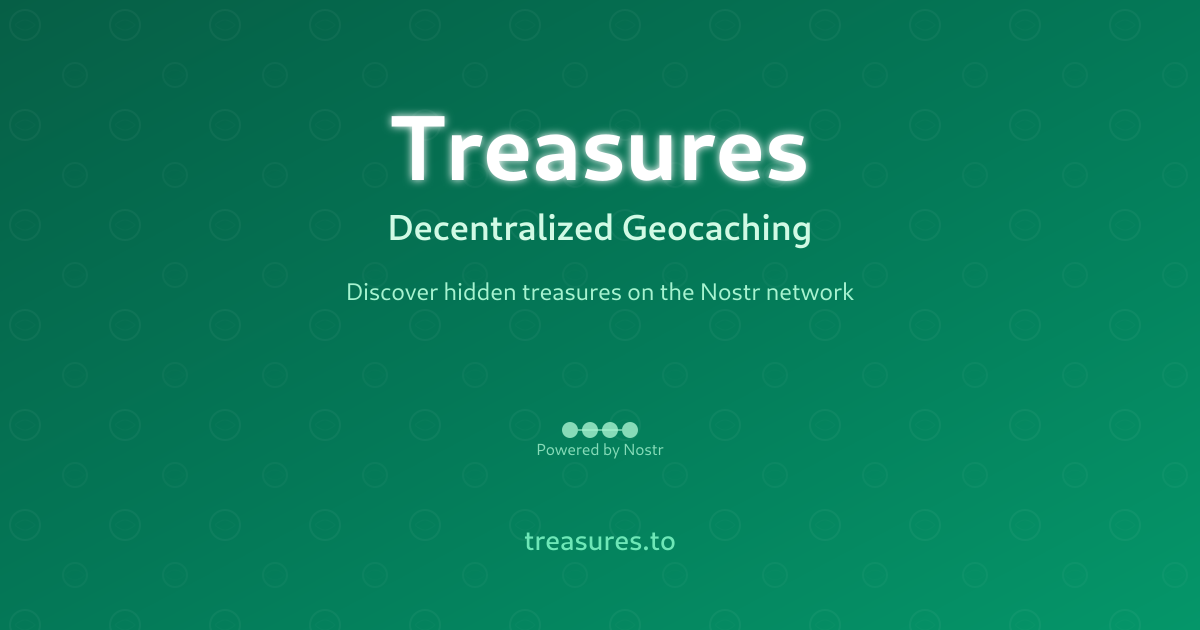
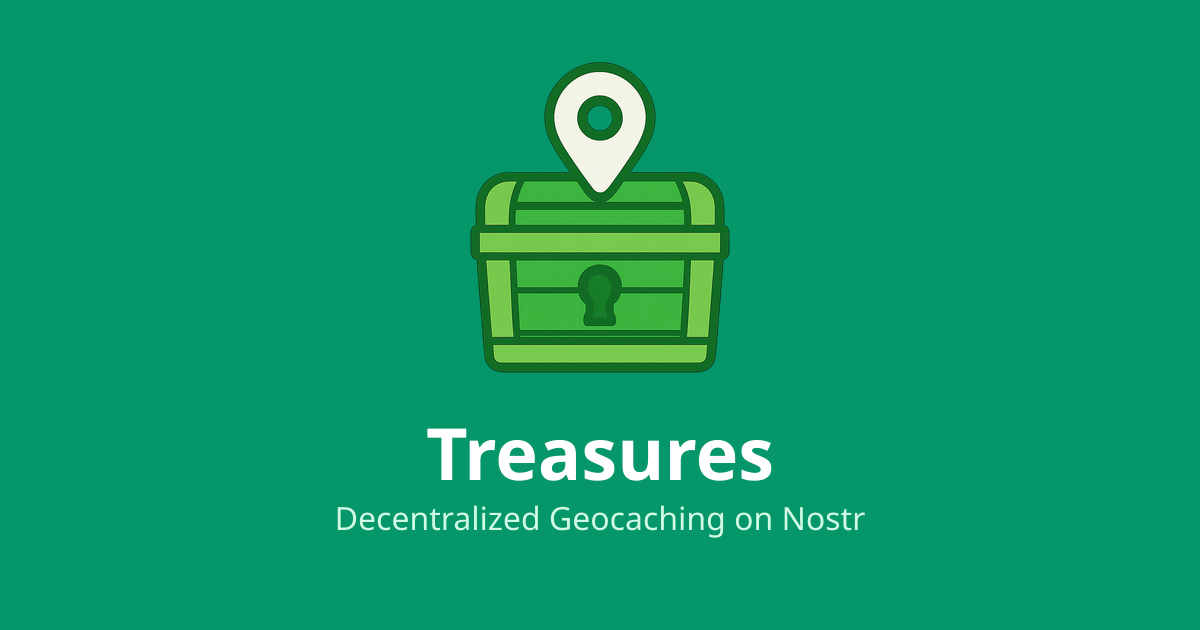
fix og-image

diff --git a/scripts/create-og-image.js b/scripts/create-og-image.js
@@ -1,0 +1,91 @@
+#!/usr/bin/env node
+
+import sharp from 'sharp';
+import path from 'path';
+
+async function createOgImage() {
+  try {
+    console.log('Creating new og-image with prominent icon...');
+    
+    // Define dimensions for og-image (standard social media size)
+    const width = 1200;
+    const height = 630;
+    
+    // Define colors (using Treasures brand colors)
+    const backgroundColor = '#059669'; // emerald-600 (green background)
+    const accentColor = '#ffffff'; // white text for contrast
+    
+    // Create the background
+    const background = sharp({
+      create: {
+        width,
+        height,
+        channels: 4,
+        background: backgroundColor
+      }
+    });
+    
+    // Load and resize the icon
+    const iconSize = 400; // Even bigger prominent icon
+    const icon = await sharp('public/icon.png')
+      .resize(iconSize, iconSize)
+      .png()
+      .toBuffer();
+    
+    // Create text overlay using SVG
+    const titleText = 'Treasures';
+    const subtitleText = 'Decentralized Geocaching on Nostr';
+    
+    const textSvg = `
+      <svg width="${width}" height="${height}" xmlns="http://www.w3.org/2000/svg">
+        <defs>
+          <style>
+            .title { 
+              font-family: -apple-system, BlinkMacSystemFont, 'Segoe UI', Roboto, sans-serif; 
+              font-size: 72px; 
+              font-weight: bold; 
+              fill: white;
+              text-anchor: middle;
+            }
+            .subtitle { 
+              font-family: -apple-system, BlinkMacSystemFont, 'Segoe UI', Roboto, sans-serif; 
+              font-size: 32px; 
+              font-weight: 400; 
+              fill: #d1fae5;
+              text-anchor: middle;
+            }
+          </style>
+        </defs>
+        <text x="${width/2}" y="480" class="title">${titleText}</text>
+        <text x="${width/2}" y="530" class="subtitle">${subtitleText}</text>
+      </svg>
+    `;
+    
+    // Composite everything together
+    const result = await background
+      .composite([
+        {
+          input: icon,
+          top: Math.round((height - iconSize) / 2 - 100), // Position icon above text (adjusted for bigger icon)
+          left: Math.round((width - iconSize) / 2),
+        },
+        {
+          input: Buffer.from(textSvg),
+          top: 0,
+          left: 0,
+        }
+      ])
+      .png()
+      .toFile('public/og-image.png');
+    
+    console.log('✅ New og-image.png created successfully!');
+    console.log(`📏 Dimensions: ${width}x${height}`);
+    console.log(`📁 Size: ${Math.round(result.size / 1024)}KB`);
+    
+  } catch (error) {
+    console.error('❌ Error creating og-image:', error);
+    process.exit(1);
+  }
+}
+
+createOgImage();
